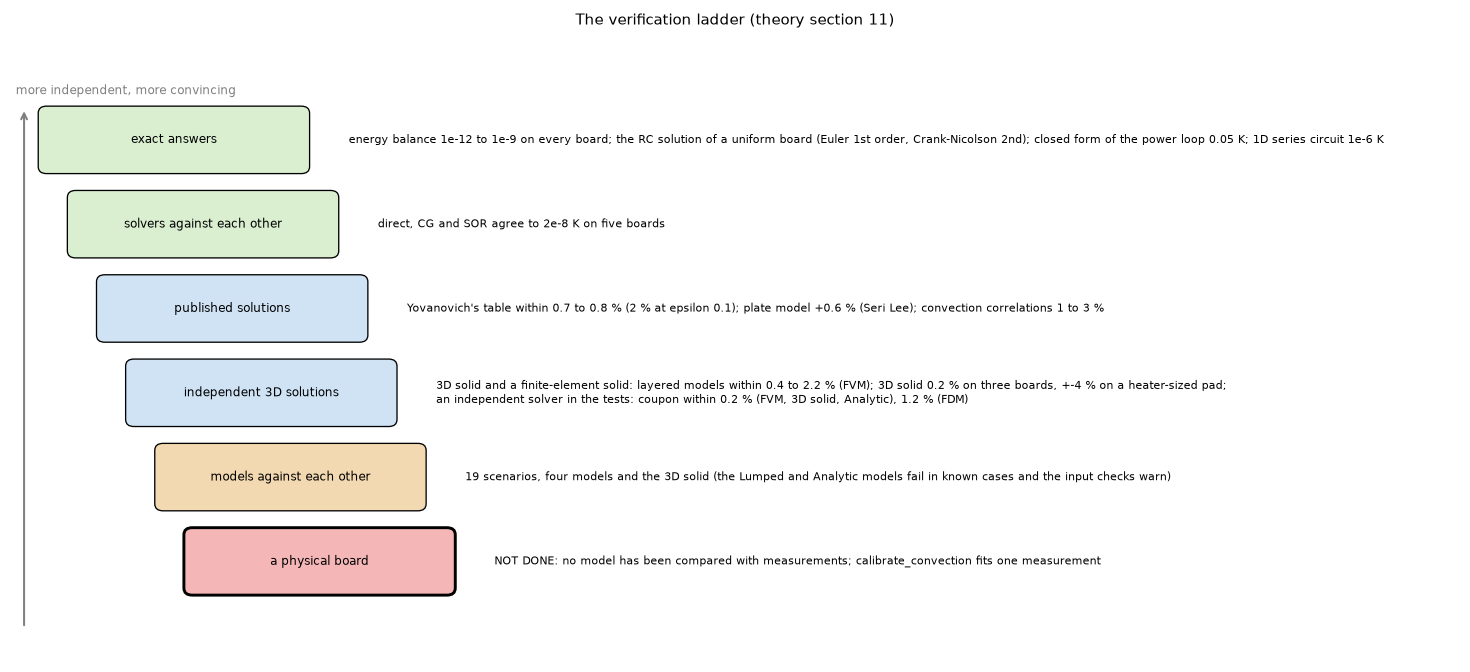
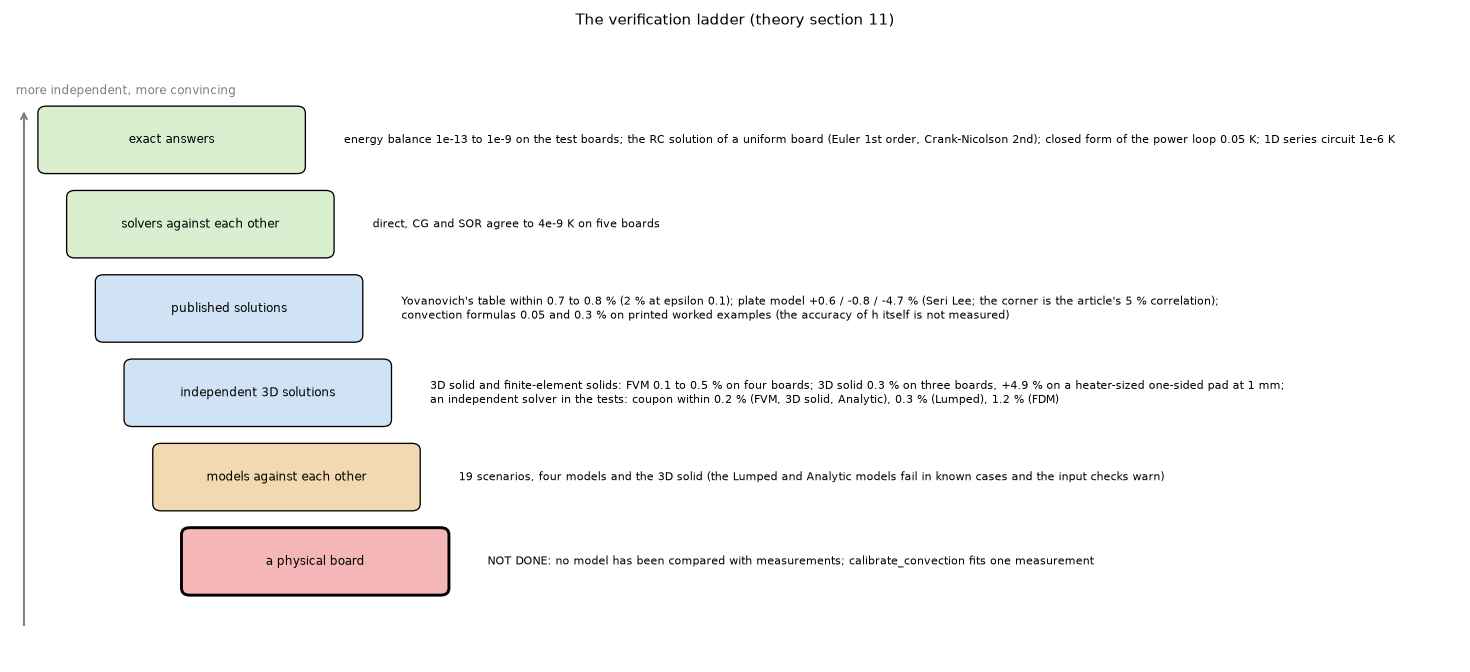
Review the theory simplification: restore the FEM review record, fix three stale passages
The record 'Review of the model branch' of theory 4a is the current
evidence of the FEM (convergence from below, the hollow via, the face
flux switch, the 55.12 K quoted by the table of section 11), not
history, so it goes back to the theory as its own paragraph. Three
corrections of the current text are checked edits of theory_moves.json:
the plate row of section 11 pointed to validation 20 (history now), a
sentence of 2.2 stated an unverified claim as a finding, and Figure 22
showed stale numbers (redrawn from the table; the stale note moves to
the history).

Claude-Session: https://claude.ai/code/session_01XgeLDd5tWg6CEJL9TQpCpU

diff --git a/research/theory/scripts/make_diagrams.py b/research/theory/scripts/make_diagrams.py
@@ -757,10 +757,10 @@ def ladder(path):
     fig, ax = dk.canvas(14, 6.4)
     ax.set_xlim(0, 14); ax.set_ylim(0, 8.2)
     rungs = [
-        ("exact answers", "energy balance 1e-12 to 1e-9 on every board; the RC solution of a uniform board (Euler 1st order, Crank-Nicolson 2nd); closed form of the power loop 0.05 K; 1D series circuit 1e-6 K", "#d9efd0"),
-        ("solvers against each other", "direct, CG and SOR agree to 2e-8 K on five boards", "#d9efd0"),
-        ("published solutions", "Yovanovich's table within 0.7 to 0.8 % (2 % at epsilon 0.1); plate model +0.6 % (Seri Lee); convection correlations 1 to 3 %", "#cfe3f5"),
-        ("independent 3D solutions", "3D solid and a finite-element solid: layered models within 0.4 to 2.2 % (FVM); 3D solid 0.2 % on three boards, +-4 % on a heater-sized pad;\nan independent solver in the tests: coupon within 0.2 % (FVM, 3D solid, Analytic), 1.2 % (FDM)", "#cfe3f5"),
+        ("exact answers", "energy balance 1e-13 to 1e-9 on the test boards; the RC solution of a uniform board (Euler 1st order, Crank-Nicolson 2nd); closed form of the power loop 0.05 K; 1D series circuit 1e-6 K", "#d9efd0"),
+        ("solvers against each other", "direct, CG and SOR agree to 4e-9 K on five boards", "#d9efd0"),
+        ("published solutions", "Yovanovich's table within 0.7 to 0.8 % (2 % at epsilon 0.1); plate model +0.6 / -0.8 / -4.7 % (Seri Lee; the corner is the article's 5 % correlation);\nconvection formulas 0.05 and 0.3 % on printed worked examples (the accuracy of h itself is not measured)", "#cfe3f5"),
+        ("independent 3D solutions", "3D solid and finite-element solids: FVM 0.1 to 0.5 % on four boards; 3D solid 0.3 % on three boards, +4.9 % on a heater-sized one-sided pad at 1 mm;\nan independent solver in the tests: coupon within 0.2 % (FVM, 3D solid, Analytic), 0.3 % (Lumped), 1.2 % (FDM)", "#cfe3f5"),
         ("models against each other", "19 scenarios, four models and the 3D solid (the Lumped and Analytic models fail in known cases and the input checks warn)", "#f3d9b1"),
         ("a physical board", "NOT DONE: no model has been compared with measurements; calibrate_convection fits one measurement", "#f4b6b6"),
     ]

diff --git a/releases/2.9.0/simplify/scripts/theory_moves.py b/releases/2.9.0/simplify/scripts/theory_moves.py
@@ -11,7 +11,9 @@ commit (10757a0e), never against the working tree:
   under its section number; `replace` is what stays in its place (usually nothing);
 * `splits`: a paragraph is cut in two before the text `before` (only whitespace changes; the check compares the
   text without whitespace);
-* `intro`: the one sentence of the introduction that points to the history file.
+* `intro`: the one sentence of the introduction that points to the history file;
+* `edits`: a correction of the current text found by the review of the branch (an exact text, found once, replaced by
+  another; each says why), applied after the splits; the number check still covers them.
 
 Run from the repository root:
 * `theory_moves.py apply`: write the two documents from the base commit and the moves.
@@ -97,6 +99,11 @@ def build(base_theory, spec):
         if theory.count(key) != 1:
             raise SystemExit(f"split text found {theory.count(key)} times: {sp['before'][:60]!r}")
         theory = theory.replace(key, "\n\n" + sp.get("indent", "") + sp["before"])
+    for ed in spec.get("edits", []):
+        # A correction of the current text (review of the branch): the old text must be found exactly once
+        if theory.count(ed["old"]) != 1:
+            raise SystemExit(f"edit text found {theory.count(ed['old'])} times: {ed['old'][:60]!r}")
+        theory = theory.replace(ed["old"], ed["new"])
     # the history is ordered by the section number, then by the order of the moves
     def sec_key(s):
         return [int(x) if x.isdigit() else 0 for x in re.split(r"[.]", s.replace("a", ".0"))]

diff --git a/docs/theory.md b/docs/theory.md
@@ -453,7 +453,7 @@ with `N` the symmetric matrix of the non-negative face conductances and `D` its 
 
   Corrections measured on a copy, not adopted (`docs/versions.md` 'Planned'): weights by sheet conductance per layer (cold spot removed; the copper-edge error −37 % to +5 % first quoted was against the smeared-barrel 3D solid: against a barrel with its wall the program read −46 % and the weights about −10 %, `research/via-partial-copper` 9.3; they put a via at a copper corner on the unsafe side, section 2.6) or a star coupling (an M-matrix; rejected, `research/via-contact-geometry` 1).
 
-  No cold spot was found on full copper; in 50 random via layouts (FVM and FDM, 0.25 and 0.1 mm) no node went below the ambient at h = 10 to 50 W/m²K, and 3 of 100 runs did at h = 500 to 5000 W/m²K (by at most 0.2 % of the rise), a test that a cold spot well above the ambient does not reveal. *(The random layouts are not printed by any script of the repository (the review of 2.4.5 ran them in a scratch file) and were measured before the rim rule of 2.6.0: a claim to re-measure, not a verified number; audit of 2.8.0.)*
+  On full copper the review of 2.4.5 reported no cold spot (not verified, see the note); in 50 random via layouts (FVM and FDM, 0.25 and 0.1 mm) no node went below the ambient at h = 10 to 50 W/m²K, and 3 of 100 runs did at h = 500 to 5000 W/m²K (by at most 0.2 % of the rise), a test that a cold spot well above the ambient does not reveal. *(The random layouts are not printed by any script of the repository (the review of 2.4.5 ran them in a scratch file) and were measured before the rim rule of 2.6.0: a claim to re-measure, not a verified number; audit of 2.8.0.)*
 
 ### 2.3 The linear solvers (`fvm.Network.solve_steady`, `solve_sor`)
 
@@ -736,6 +736,8 @@ A block hides the board face under it (factor `1 − c`) and loses heat on its e
 **Limits of the builder**: a heater whose footprint is partly over bare laminate puts that share of its power in the copper slab of its layer where it is laminate material (a slab 35 µm thick, as the 3D solid does), and the **point value** there needs several elements across the bare part. The drawn L board of the regression harness (a 4 mm part whose corner, 1.2 x 1.2 mm, lies over the bare notch of the copper) reads 82.1 / 116.3 / 104.6 K at the cell 2 / 1 / 0.5 mm (fine element 1, 0.5, 0.25 mm: one, two and five elements across the bare corner) and 104.2 / 104.5 K with the fine element 0.125 / 0.0625 mm, the hot point inside the bare corner (x = y = 11.4 mm); the 3D solid reads 62.4 / 113.8 / 100.8 / 101.6 K at 2 / 1 / 0.5 / 0.25 mm, the same non-monotone path. It is the resolution of a 1.2 mm low-conductivity patch beside copper a thousand times more conductive, not a defect of the mesh (the refinement is applied: the fine element is the cell over 2 under the part): the source-weighted mean of the part converges monotonically from below, as the energy bound of a conforming Galerkin solution requires (61.4, 63.0, 63.8, 63.9, 64.2 K), the same board with the notch filled converges smoothly (59.08 / 59.15 / 59.52 K), and on full copper the point and the element mean agree to 0.2 K. A point value of a part over bare laminate is therefore read at a fine element of at most a quarter of the smallest bare stretch under the part (the option `fem_refine`, `--fem-refine`); an imported board is a different stencil, not a better answer; the window lines of a via patch run across the whole tensor grid, and a window holds no other drill, so a dense array of vias falls back to rods (the 4 x 4 array at a 2 mm pitch of `plate_vias` is 16 rods at 2 mm, 4 patches and 12 rods at 1 mm).
 
 **Where it is checked**: `tests/test_fem_mesh.py` (the mesh of a plain board equals the hand-built structured mesh node for node, element for element and conductivity for conductivity; the unknown count equals the built mesh on ten boards; the fill of every element equals `copper._zone_union` on slanted and hatched zones; the volumes of the board slabs, of a block with its pad and of a via ring are exact; the refusals say why; 24 hostile boards (hundreds of lines, near-coincident edges, vias on break lines, tiny parts, parts outside the board) give a mesh within the cap or a refusal; and an end-to-end check of the example board at a 4 mm cell: heat balance 0.999999999973 and the hottest copper element mean 58.64 K against the FVM's 58.93 K, an integration check, not the validation of the model); `tests/test_fem_memory.py` (the law covers every measured run with the 10 % margin, never decreases, leaves the other models unchanged, gives verdicts consistent with the 3D solid and a refused verdict with the reason for a problem with no mesh); `tests/test_fem_port.py` (the port against the research solver to 1e-9 on seven research boards and on stored numbers; the 1D column with films, the slab with a Robin end, the hollow cylinder against the radial closed form with second-order convergence; the heat balance; direct against CG + pyamg 1.7e-11 relative on 2646 unknowns; the behaviour without pyamg; the refusal of hostile inputs). A review re-ran the port on three boards of its own (Robin sides and a source patch, a via rod, a top copper over half the board; 8897 unknowns): femcore and the research solver are bit-identical and scikit-fem on the same mesh agrees to 5e-9 K on a rise of about 100 K; the hollow cylinder's heat per metre is -1.14 / -0.28 / -0.071 / -0.018 % at 12 / 24 / 48 / 96 sectors (the perimeter of the inscribed polygon, second order); the peak memory of a direct solve at the limit is under 0.5 GB (a cube of 31 nodes a side, 28 830 unknowns); the research tool itself is in `research/independent-fem-edge` and `research/independent-fem-extensions` (validation 28, 36, 40, 43, 44, 46, 47). `tests/test_fem_model.py` (the model: the heat balance and the paths to 1e-9; a one-dimensional column with a source over the whole board, the face temperatures exact to 1e-6 K with the plain film; a plain board against the FVM and the 3D solid at the same cell, the FEM column 0.4 to 0.9 % below; a hollow-via cluster against the FVM; case 2 of Muzychka, Culham and Yovanovich (2003): the 1 mm cell centred on each centroid 97.467 / 103.851 / 101.327 / 99.992 °C (0.09 K of it the 1 um FR-4 film that the one-layer Problem carries) and the column 95.436 / 99.231 / 97.571 / 97.095 degC against the independent 3D column means 95.35 / 99.15 / 97.49 / 97.01, and the converged node at the centroid with the 1 um laminate film made conductive 97.38 / 103.77 / 101.25 / 99.91 against the published 97.40 / 103.82 / 101.28 / 99.94; the refusals, the cancel, the missing pyamg, the hostile options, the blocks, the live check and the command line); `tests/test_format_compat_271.py` (the project key); the frozen records `fem` of `tests/regression` (pending file `fem-records.json`).
+
+**Review of the model branch** (`releases/2.8.0/fem-model/REVIEW_BRANCH4.md`, tree `feature/fem-model`): (1) the first test of case 2 met the paper to the printed digit by two offsets that cancel (the 1 um laminate film of the one-layer Problem, +0.09 K, and a 2 x 2 mm window that `round()` to even put 0.5 mm off the centroid, -0.07 K); the converged node is 0.02 to 0.05 K below the paper with a conductive film and moves by at most 0.01 K from a 2 mm to a 0.5 mm cell and from the refinement 1 to 4; (2) on a 40 x 30 mm two-layer board (35 um, isotropic laminate 0.3 W/mK, 6 mm part, 1 W) the heater surface mean converges from below in the FEM (55.003 / 55.083 / 55.104 / 55.108 K for the fine element 1 / 0.5 / 0.25 / 0.25 mm at the cell 1, 1, 1, 0.5 mm) and from above in the independent finite volumes of `research/solid3d-verification/lib/layered3d.py` (55.379 / 55.183 / 55.134 K at 1 / 0.5 / 0.25 mm), both to about 55.12 K: the 0.4 to 0.9 % between the FEM and the FVM at the same cell is mostly the discretisation of the finite volumes (the 6 or 12 elements across the gap give the same number to 0.1 mK); (3) a hollow via (0.3 mm drill, 25 µm plating, open) 3 mm from a 3 x 2 mm, 0.5 W part on the 10 x 10 mm four-layer strong-edge board lowers the hottest node by 1.422 / 1.428 / 1.436 K at the cell 1 / 0.5 / 0.25 mm and the heater surface mean by 1.475 / 1.481 / 1.482 K, against 1.431 / 1.434 K and 1.476 / 1.481 K of the research tool (`research/independent-fem-extensions`, fine size 0.2 / 0.1 mm); (4) the face flux of a part on thick outer copper is continuous at the 105 µm switch: 2.4 mK between the face flux and the volumetric source at 110 µm, where the independent 3D (a face flux) puts the surface 2.7 mK above the column; (5) the conjugate gradients against the direct solve: 6e-10 to 1.8e-9 K on four meshes of 12 558 to 80 500 unknowns.
 
 **Sources**: [ZienkiewiczTaylor2000] (M) and [Hughes2000] (M) for the Q1 isoparametric formulation and the Robin boundary integral (the element was written from the standard formulation and checked by a patch test on a distorted mesh and by scikit-fem on the same mesh to 1e-10 in the research folder; the books were not opened); the Lee plate, the Culham-Yovanovich coupon and [Muzychka2003] as in `docs/validation.md`; [Pyamg] for the preconditioner (R for the package metadata, N for its paper; the smoothed-aggregation method is used as a black box, its result checked against the direct solve).
 
@@ -1295,7 +1297,7 @@ No measurement of a physical board and no published fast-wave case of a layered 
 
 ![The verification ladder](images/fig_22_verification_ladder.png)
 
-*Figure 22 (`images/fig_22_verification_ladder.png`): the checks in order of independence, from exact solutions to the comparison between models, and the rung that is still missing: a physical board. The numbers written in the boxes are of an earlier tree and are stale (solvers '2e-8 K', convection '1 to 3 %', FVM '0.4 to 2.2 %', 3D solid '±4 %'); the table below holds the current ones (final review 2a: regenerate the figure from `research/theory/scripts/make_diagrams.py`, `ladder`).*
+*Figure 22 (`images/fig_22_verification_ladder.png`): the checks in order of independence, from exact solutions to the comparison between models, and the rung that is still missing: a physical board. The numbers in the boxes are those of the table below.*
 
 | Piece | How it is checked | Result (evidence in `validation.md`) |
 | :-- | :-- | :-- |
@@ -1306,7 +1308,7 @@ No measurement of a physical board and no published fast-wave case of a layered 
 | Layered models | the independent 3D solver of the tests on a Cu / FR-4 / Cu coupon | FVM, 3D solid and Analytic within 0.2 %, FDM within 1.2 %, Lumped within 0.3 % (0.5 mm; 22) |
 | 3D solid | Yovanovich's Table 3 (isoflux source on a flux tube) | +0.7 to +0.8 % at `ε` 0.2 and 0.3, 2 % at `ε` 0.1 where the source has three cells (16; `research/solid3d-verification`) |
 | 3D solid | finite-element solid; grid convergence of an aligned source | within 0.3 % on three boards of 3 and +1.6 % on a 20 mm pad (4 slabs per gap, not re-run with the slabs by thickness, which are checked in 21.3); on the one-sided pads of 3.1, at 1 mm with the slabs by thickness, +4.9 % (heater-sized) and +2.3 % (20 mm) against the converged finite elements of the audit, the 1 mm plan cell on a 10 mm part (the +8.0 % of the table was a 4-slab solid against the cold reference); blocks within 0.2 %; grid convergence index 1.14 % (16) |
-| Plate (block) model | published spreading resistance (Seri Lee), run through `blocks.py` (FVM, FDM, 3D solid) in the audit of 2.8.0; on the four plates of [Muzychka2003] the program reads the node, not the surface the paper reports: 2.1 % of the rise low on the cross, 8 to 9 % on case 1 (a), 2.9 to 5.5 K on case 2 (theory 7.5; validation 22.1) | +0.6 % centre, −0.8 % edge, −4.7 % corner against the printed values, within 0.2 % of the exact thin-plate series; the corner gap is the article's own 5 % correlation (validation 20; theory 7.5; the −4.6 % of validation 25 is the earlier thin-plate solver of a study) |
+| Plate (block) model | published spreading resistance (Seri Lee), run through `blocks.py` (FVM, FDM, 3D solid) in the audit of 2.8.0; on the four plates of [Muzychka2003] the program reads the node, not the surface the paper reports: 2.1 % of the rise low on the cross, 8 to 9 % on case 1 (a), 2.9 to 5.5 K on case 2 (theory 7.5; validation 22.1) | +0.6 % centre, −0.8 % edge, −4.7 % corner against the printed values, within 0.2 % of the exact thin-plate series; the corner gap is the article's own 5 % correlation (theory 7.5, re-run by the final review of 2.8.0; the −4.6 % of validation 25 and of the history of validation 20 is the earlier thin-plate solver of a study) |
 | Convection correlations | printed worked examples and air table ([Lienhard2024] Examples 8.1 and 6.5, Table A.6) | the coded formulas: 0.3 % (4.233 against 4.22 W/m²K) and 0.05 % (21.39 against 21.4 W/m²K; theory 8), air properties 2.2 % (validation 8); the accuracy of `h` itself is not measured (published plate results differ by about ±20 % vertical, ±50 % horizontal); from `Ra` 10² to 10⁶ the face-up law is −21 to +41 % from the other printed face-up laws (−14 to +20 % from Raithby-Hollands, [Lienhard2024] 8.37) and the face-down law −9 to +8 % from the printed face-down levels (the table of theory 8) |
 | Parts | closed form `ΔT = P₀R/(1 − αP₀R)`; the exact root of the top-path split | 0.05 K (9); the split equals the root of its scalar equation (9, `tests/test_top_path.py`) |
 | Fast power waves | the closed form (10.5) against an axisymmetric modal solver and a Cartesian 3D frequency-domain solver of the reviewer | 0.995 to 1.08 on 636 full-copper cases; the node structure 2 to 12 times low (37.1, 37.2) |

diff --git a/docs/decisions-log.md b/docs/decisions-log.md
@@ -4,7 +4,7 @@ The record of the decisions of PCB Thermal Lab, newest first, with the reason. I
 
 ## Entries
 
-- **`docs/theory.md` is simplified by moves that are checked, not by rewriting: superseded passages go byte for byte to the new `docs/theory-history.md` under their section number, the long paragraphs are cut at their own lead-ins, no number, heading or section number changes** (reviewer's plan of 2.8.0 carried out as `docs/simplify-theory`, documents only): every edit is listed in `releases/2.9.0/simplify/theory_moves.json` and applied to the base text by `releases/2.9.0/simplify/scripts/theory_moves.py`, whose `check` compares the two documents at HEAD (read from git, not from the working tree) with base plus moves and counts the numeric tokens of theory plus history against the base (none lost). Why not more: a rewrite inside the dense paragraphs cannot be proved lossless by a script, and the measured numbers that the 2.8.0 plan sends to `validation.md` wait for the validation branch. Measured evidence of an earlier tree stays in the theory unless it is a replaced value.
+- **`docs/theory.md` is simplified by moves that are checked, not by rewriting: superseded passages go byte for byte to the new `docs/theory-history.md` under their section number, the long paragraphs are cut at their own lead-ins, no number, heading or section number changes** (reviewer's plan of 2.8.0 carried out as `docs/simplify-theory`, documents only): every edit is listed in `releases/2.9.0/simplify/theory_moves.json` and applied to the base text by `releases/2.9.0/simplify/scripts/theory_moves.py`, whose `check` compares the two documents at HEAD (read from git, not from the working tree) with base plus moves and counts the numeric tokens of theory plus history against the base (none lost). Why not more: a rewrite inside the dense paragraphs cannot be proved lossless by a script, and the measured numbers that the 2.8.0 plan sends to `validation.md` wait for the validation branch. Measured evidence of an earlier tree stays in the theory unless it is a replaced value. **Review of the branch**: the record 'Review of the model branch' of 4a was restored to the theory (it is the current evidence of the FEM: the convergence from below, the hollow via, the face-flux switch, and the 55.12 K that the table of section 11 quotes), so 17 passages move; three corrections of the current text are listed as `edits` in the same JSON and checked by the same script (the plate row of 11 pointed to validation 20, whose body is in `validation-history.md`; a sentence of 2.2 stated as a finding the cold-spot claim that its note marks unverified; Figure 22 was redrawn with the numbers of the table of 11 and its caption's stale note moved to the history). The reviewer judges a second pass worth doing (about a third of the theory is number-heavy evidence whose numbers are already in `validation.md`), after `docs/simplify-validation` is merged: the number-heavy paragraphs reduced to the law, range and error direction with a pointer, each removed number checked present in `validation.md`.
 
 - **The setting 'Summary table in the report text' has a Preferences page of its own, *Results*, key `results.summary_table_in_report`, shipped off** (reviewer's decision, delegated by the maintainer, 2026-11-19, `feature/summary-table-setting`): the plan proposed the key under `solver`, but the Solver page holds the models and settings a new project starts with (plus the machine memory limit), while this setting only changes how the Results window writes its report text; a separate machine page, like *Gerber import* and *Project package*, says what it is, keeps it out of project files, and is where later Results display settings go (the Preferences list grows from eleven to twelve sections). Only a JSON `true` turns it on. Moves no number; the saved report, the command line and the export keep the table.
 

diff --git a/docs/theory-history.md b/docs/theory-history.md
@@ -62,12 +62,6 @@ keeps only what is implemented now. What each version did is in `versions.md`; t
 
 > A cell cut by the outline (cover `c_b < 1`) used to be joined with the cover-scaled conductivity `k c_b` and the harmonic mean, which makes the link into a sliver of a cell (`c_b` of 0.01 to 0.1) `2c_b/(1 + c_b)` of a full link, and the edge film sat on the sliver node behind the cover-scaled conduction: the heat of the edge column could not reach the sliver and the sliver cell read far too hot (a jump of 15.8 K, 13 % of the rise, between covers 0.01 and 0.02 at 1 mm and `h_side` = 200 W/m²K; +1.6 K at the default 10; four to five times the same defect of the FVM, `research/cut-cell-links` 10.1, `validation.md` 33). Now, for the
 
-## 4a
-
-**Review of the model branch (tree feature/fem-model): the checks of the steady FEM**
-
-> **Review of the model branch** (`releases/2.8.0/fem-model/REVIEW_BRANCH4.md`, tree `feature/fem-model`): (1) the first test of case 2 met the paper to the printed digit by two offsets that cancel (the 1 um laminate film of the one-layer Problem, +0.09 K, and a 2 x 2 mm window that `round()` to even put 0.5 mm off the centroid, -0.07 K); the converged node is 0.02 to 0.05 K below the paper with a conductive film and moves by at most 0.01 K from a 2 mm to a 0.5 mm cell and from the refinement 1 to 4; (2) on a 40 x 30 mm two-layer board (35 um, isotropic laminate 0.3 W/mK, 6 mm part, 1 W) the heater surface mean converges from below in the FEM (55.003 / 55.083 / 55.104 / 55.108 K for the fine element 1 / 0.5 / 0.25 / 0.25 mm at the cell 1, 1, 1, 0.5 mm) and from above in the independent finite volumes of `research/solid3d-verification/lib/layered3d.py` (55.379 / 55.183 / 55.134 K at 1 / 0.5 / 0.25 mm), both to about 55.12 K: the 0.4 to 0.9 % between the FEM and the FVM at the same cell is mostly the discretisation of the finite volumes (the 6 or 12 elements across the gap give the same number to 0.1 mK); (3) a hollow via (0.3 mm drill, 25 µm plating, open) 3 mm from a 3 x 2 mm, 0.5 W part on the 10 x 10 mm four-layer strong-edge board lowers the hottest node by 1.422 / 1.428 / 1.436 K at the cell 1 / 0.5 / 0.25 mm and the heater surface mean by 1.475 / 1.481 / 1.482 K, against 1.431 / 1.434 K and 1.476 / 1.481 K of the research tool (`research/independent-fem-extensions`, fine size 0.2 / 0.1 mm); (4) the face flux of a part on thick outer copper is continuous at the 105 µm switch: 2.4 mK between the face flux and the volumetric source at 110 µm, where the independent 3D (a face flux) puts the surface 2.7 mK above the column; (5) the conjugate gradients against the direct solve: 6e-10 to 1.8e-9 K on four meshes of 12 558 to 80 500 unknowns. 
-
 ## 5
 
 **The one-node footprint before the zones of 2.5.0**
@@ -103,3 +97,9 @@ keeps only what is implemented now. What each version did is in `versions.md`; t
 **The wording of the Lanczos factor before the audit of 2.8.0**
 
 > ; the text said `sinc(k/N)` until the audit 2.8.0 A5, which is not what the code computes
+
+## 11
+
+**The note that the numbers of Figure 22 were stale (the figure was redrawn with the numbers of the table in the review of the branch)**
+
+>  The numbers written in the boxes are of an earlier tree and are stale (solvers '2e-8 K', convection '1 to 3 %', FVM '0.4 to 2.2 %', 3D solid '±4 %'); the table below holds the current ones (final review 2a: regenerate the figure from `research/theory/scripts/make_diagrams.py`, `ladder`).
